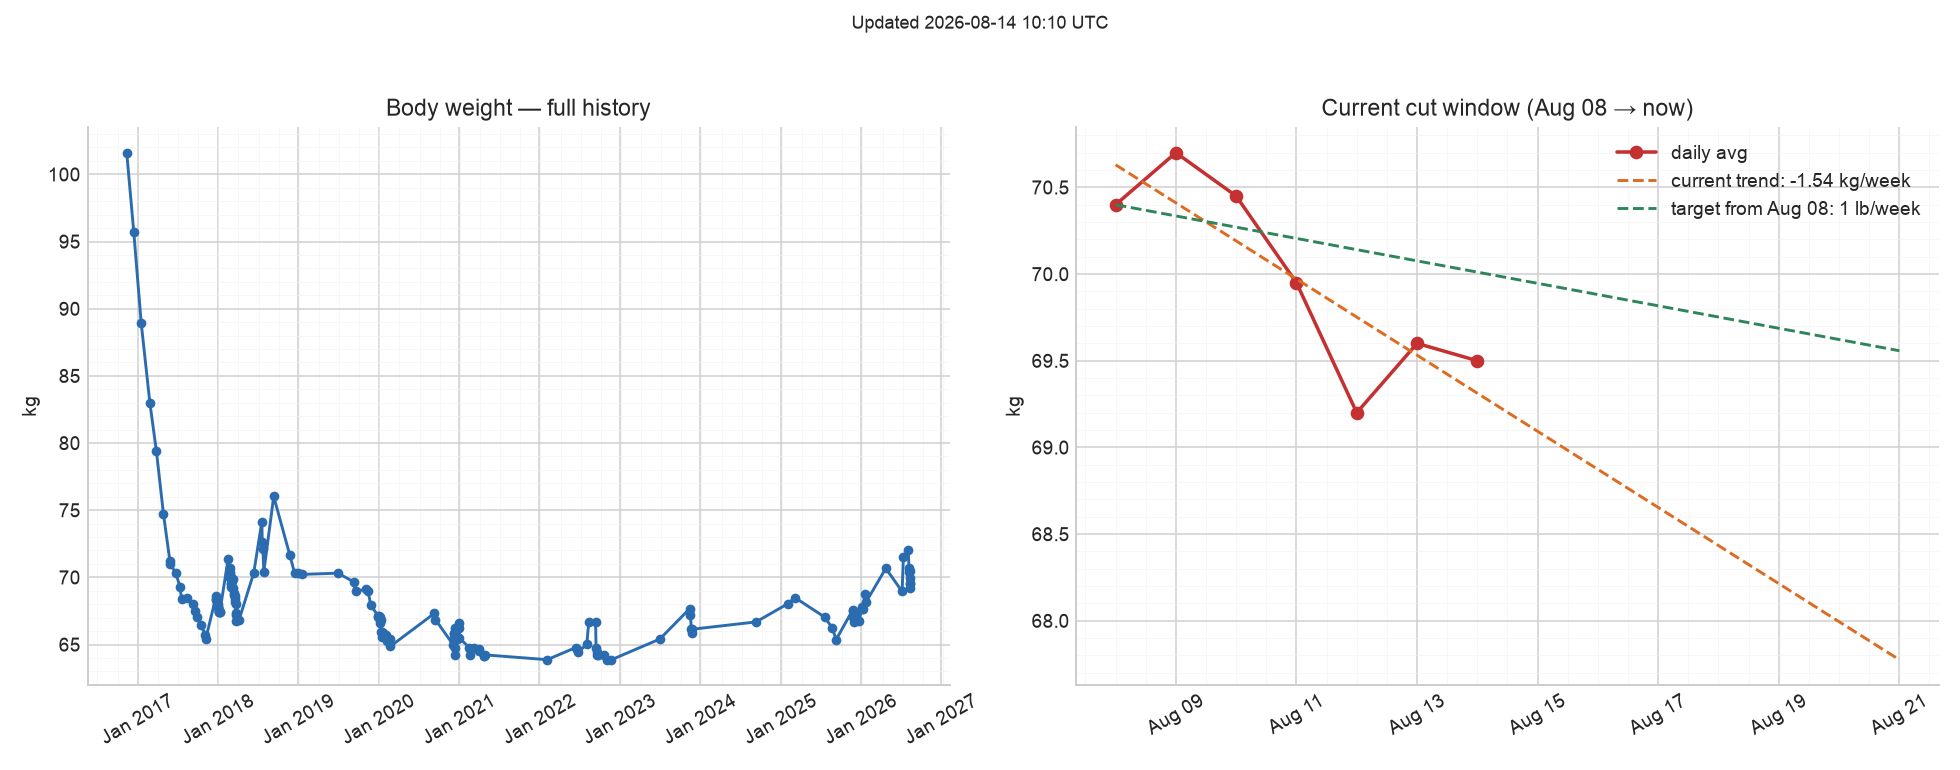
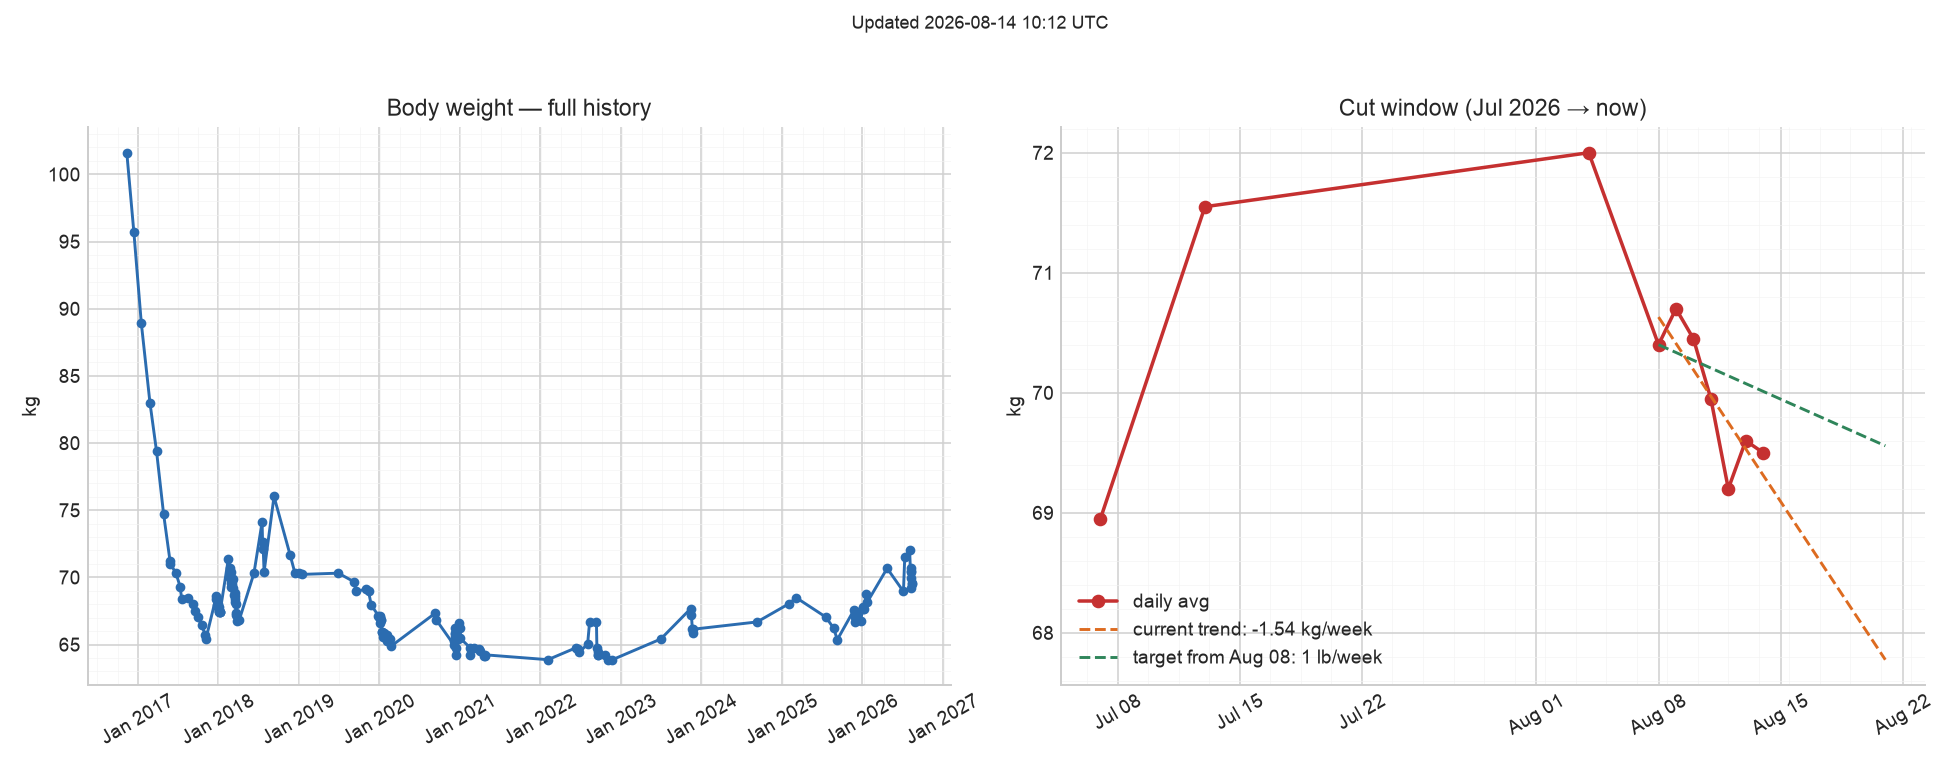
fix: weight panel 2 shows Jul 2026 cut window

diff --git a/chart.py b/chart.py
@@ -77,18 +77,19 @@ def main():
         slope, intercept = np.polyfit(x, y, 1)
         slope_wk = slope * 7
 
+        cut_dates = [d for d in dates if d >= datetime(2026, 7, 1)]
+        cut_weights = [w for d, w in zip(dates, weights) if d >= datetime(2026, 7, 1)]
+
         xr = np.linspace(0, x.max() + 7, 50)
         trend_dates = [dense_dates[0] + timedelta(days=float(v)) for v in xr]
-        ax2.plot(dense_dates, dense_weights, "o-", color="#c53030", lw=1.8, ms=6,
+        ax2.plot(cut_dates, cut_weights, "o-", color="#c53030", lw=1.8, ms=6,
                  label="daily avg")
         ax2.plot(trend_dates, intercept + slope * xr, "--", color="#dd6b20",
                  label=f"current trend: {slope_wk:+.2f} kg/week")
         ax2.plot(trend_dates, dense_weights[0] + TARGET_KG_PER_DAY * xr, "--",
                  color="#2f855a",
                  label=f"target from {dense_dates[0]:%b %d}: 1 lb/week")
-        ax2.set_title(
-            f"Current cut window ({dense_dates[0]:%b %d} → now)"
-        )
+        ax2.set_title("Cut window (Jul 2026 → now)")
         ax2.legend()
 
     ax2.set_ylabel("kg")
